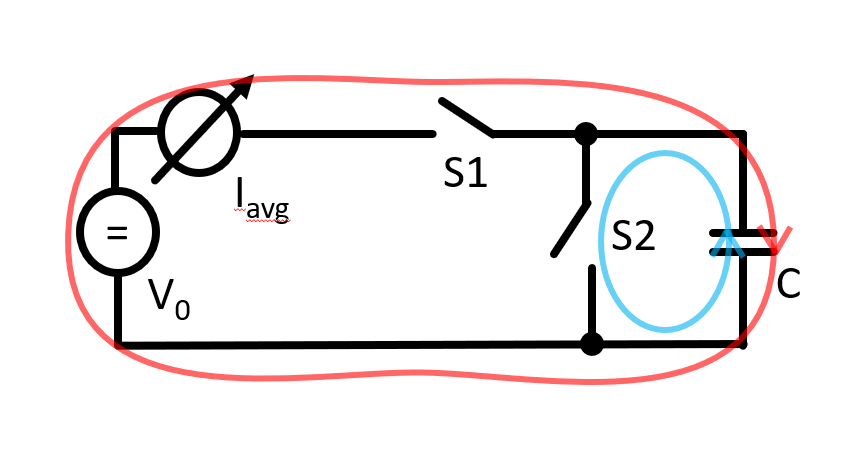
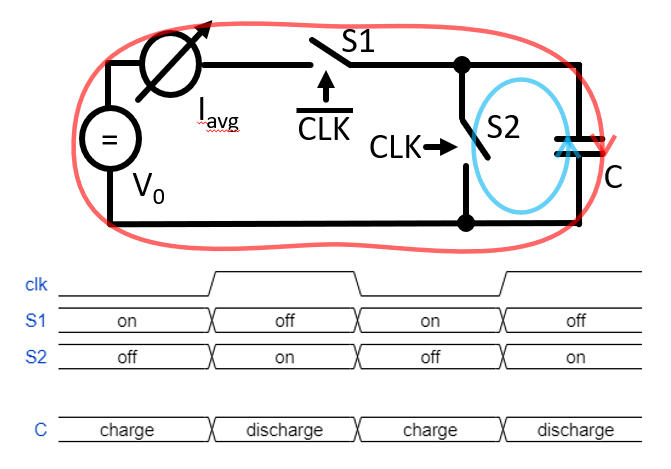
added CVM documentation

diff --git a/docs/source/cvm.rst b/docs/source/cvm.rst
@@ -12,7 +12,7 @@ This experiment uses the C-V meter module to characterise the capacitance of a s
 
 
 .. figure:: images/cbcm.png
-    :width: 300
+    :width: 500
     :align: center
 
     Simplified diagram of a charge-based capacitance measurement circuit. When switch S1 is closed and S2 is open, the capacitance is charged with a constant voltage amplitude V0 (current path shown in red). When S1 is open and S2 is closed, the capacitance is discharged (current path shown in blue). The average current generated from the periodic charging phases is measured and used to determine the value of the capacitance C.
@@ -39,7 +39,32 @@ and therefore
   
 Circuit Implementation 
 ----------------------
-The switches for charing and discharging the capacitance are implemented with a CMOS inverter. The power supply of the gate is connected to the voltage V0 and the input is connected to a GPIO signal with programmable frequency. The output of the inverter is connected to the capacitance under test. To characterise the (bias-) voltage dependence of a sensor diode capacitance, the output of the CBCM circuit is ac-coupled. That allows the connection of a bias voltage source to the detector diode. A large series resistor is the bias path (1 Meg Ohm) isolates the bias voltage source from the CBCM circuit. 
+The switches for charing and discharging the capacitance are implemented with a CMOS inverter. The power supply of the inverter is connected via an RC low-pass filter to the voltage source V0 and the inverter input is connected to a GPIO signal with programmable frequency. The low-pass filter smoothes the current transients during the charing phase and thus allows the measurement of the average current. The output of the inverter is connected to the capacitance under test. To characterise the (bias-) voltage dependence of a sensor diode capacitance, the output of the CBCM circuit is ac-coupled. That allows the connection of a bias voltage source to the detector diode. A large series resistor R_bias (1 Meg Ohm) isolates the bias voltage source from the CBCM circuit. 
 
-To apply the voltage V0 and to measure the current, an SMU-module can be used. The voltage V0 should be chosen such that the transistors in the CMOS inverter are not switched on at the same time. If V0 is chosen too high (> 2 times the threshold voltage of a transistor), both transistors will be conducting during an input clock transition which will deteriorate the measurement. If the voltage is chosen too small, the measured current will be small and thus more affected by noise. 1.5 V has been found to be a good compromise for the CBCM measurement.	
+.. figure:: images/CVM_circuit.png
+    :width: 600
+    :align: center
 
+    Simplified schematic of the CVM module. The switches are implemented with a CMOS inverter where the NMOS transistor is closed and the PMOS is open during the discharge phase (CLK = high) and the NMOS transistor is open and the PMOS is closed during the charging phase (CLK = low). 
+
+
+To apply the voltage V0 and to measure the current, an SMU-module can be used. The voltage V0 should be chosen such that the PMOS and NMOS transistors in the CMOS inverter are not switched on at the same time. If V0 is chosen too high (> 2 times the threshold voltage of a transistor), both transistors will be conducting during an input clock transition which will deteriorate the measurement. If the voltage is chosen too small, the measured current will be small and thus more affected by noise. 1.5 V has been found to be a good compromise for the CBCM measurement.	
+
+Exercises 
+---------
+
+There is a script ``cvm.py`` in the folder ``code\CVM`` which contains the necessary includes and the basic configuration for implementing a programmable clock with one of the GPIO pins and controlling a SMU module. Note that the clock configuration requires to call a C-library which needs ``root`` privileges. Therefore you need to start the script with ``sudo ./cvm.py``. Copy it into your ``work`` folder and use it as a template for your scripts. There is also another file called ``cvm_solution.py`` which contains working code for most of the exercises. Note that this should only be used for reference or as a last resort if you got stuck.
+
+
+.. admonition:: Exercise 0. A bit of theory
+
+  #. To measure the average of the periodic charge current, an RC low-pass filter is used. The resulting voltage drop over the R_lpf resistor will reduce the effective charge voltage. How would you need to modify the equation above to compensate for this effect?
+  #. The ac-coupling capacitor should be much larger than the capacitance under test to not influence the measurement. If this is not the case, how would you calculate the real capacitance from the measured value?
+  #. Give the formula of the depletion width of a pn-junction. How does the capacitance of a pn-junction depend on the bias voltage (assume a plate capacitor configuration)? And how would one plot the voltage dependent capacitance as a linear function?
+
+.. admonition:: Exercise 1. Preparation and test of the measurement setup
+    
+  #. Connect the CVM module to the base board witch an RJ-45 cable and modify the ``cvm.py`` script such that GPIO pin 4 generates a 100 kHz clock signal. Connect an oscilloscope probe to GPIO4 test pin at the Embedded-System-Lab base board and measure the clock frequency.
+  #. Connect the SMU module to the base board with an flat-ribbon cable and adjust the script such that the SMU module is set to source a voltage of 1.5 V. Measure the voltage with a DVM.
+  #. Connect the output of the SMU module to the input of the CVM module with a LEMO cable and measure the SMU current. Don't connect a test capacitor yet. Calculate the parasitic capacitance from the measured current.
+  #. Now modify the script that it scans the clock frequency from 100 kHz to 1 MHz in steps of 100 kHz and measures the current for each frequency step. Plot the measured current as a function of the clock frequency. Calculate the slope factor and the parasitic capacitance of CVM circuit. Compare this measured value with the value from the previous measurement (the one at a fixed 100 kHz clock frequency). How large is the static leakage current?
